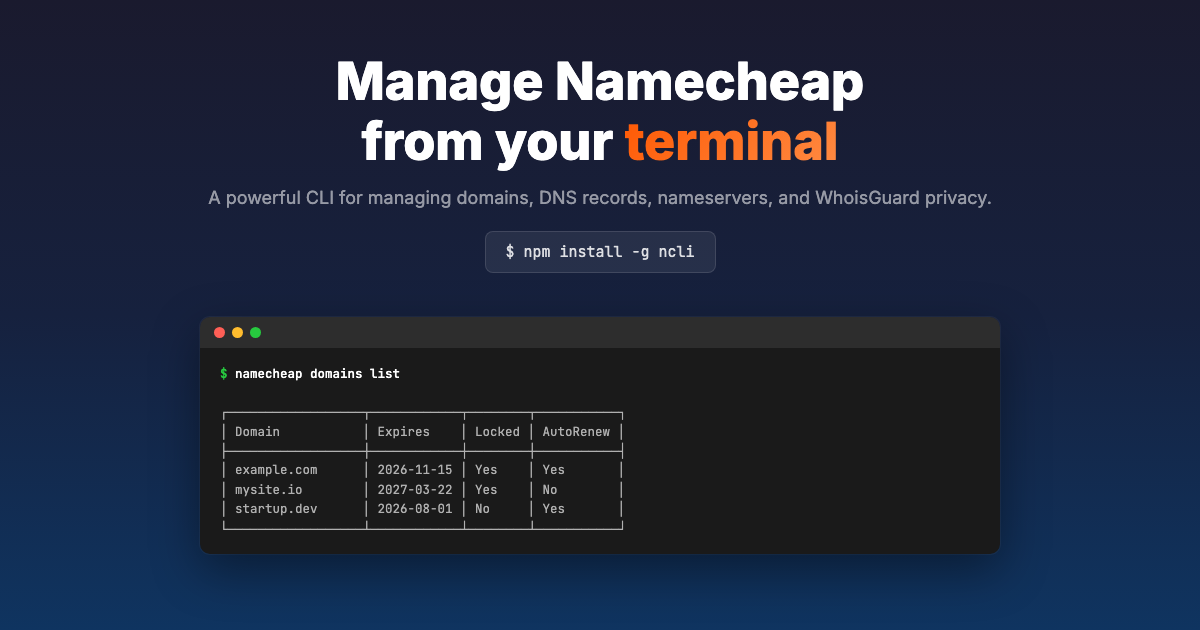
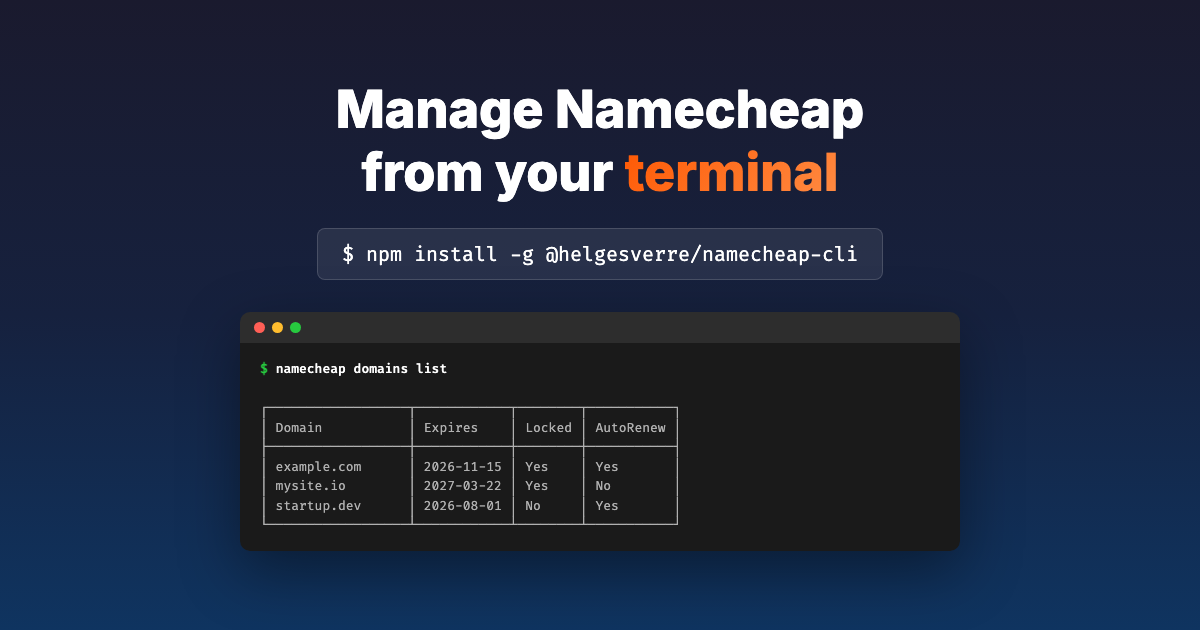
chore(website): update package name to @helgesverre/namecheap-cli

Changed region(s): [[0.1542, 0.4825, 0.8325, 0.9048], [0.1542, 0.0905, 0.8325, 0.3317], [0.2775, 0.3921, 0.7092, 0.4524]]

diff --git a/website/.vitepress/theme/HomePage.vue b/website/.vitepress/theme/HomePage.vue
@@ -5,15 +5,15 @@ const copied = ref(false);
 const activeTab = ref('npm');
 
 const tabs = [
-  { id: 'npm', label: 'npm', command: 'npm install -g ncli' },
-  { id: 'pnpm', label: 'pnpm', command: 'pnpm add -g ncli' },
-  { id: 'yarn', label: 'yarn', command: 'yarn global add ncli' },
-  { id: 'bun', label: 'bun', command: 'bun add -g ncli' },
+  { id: 'npm', label: 'npm', command: 'npm install -g @helgesverre/namecheap-cli' },
+  { id: 'pnpm', label: 'pnpm', command: 'pnpm add -g @helgesverre/namecheap-cli' },
+  { id: 'yarn', label: 'yarn', command: 'yarn global add @helgesverre/namecheap-cli' },
+  { id: 'bun', label: 'bun', command: 'bun add -g @helgesverre/namecheap-cli' },
 ];
 
 function copyInstall() {
   const tab = tabs.find((t) => t.id === activeTab.value);
-  navigator.clipboard.writeText(tab ? tab.command : 'npm install -g ncli');
+  navigator.clipboard.writeText(tab ? tab.command : 'npm install -g @helgesverre/namecheap-cli');
   copied.value = true;
   setTimeout(() => {
     copied.value = false;
@@ -77,7 +77,7 @@ const features = [
         with TypeScript.
       </p>
       <div class="hero-install" @click="copyInstall">
-        <code>npm install -g ncli</code>
+        <code>npm install -g @helgesverre/namecheap-cli</code>
         <span class="copy-icon">{{ copied ? '✓' : '📋' }}</span>
       </div>
       <div class="hero-actions">
@@ -160,7 +160,7 @@ const features = [
         <code>{{ tabs.find((t) => t.id === activeTab)?.command }}</code>
         <span class="copy-icon">{{ copied ? '✓' : '📋' }}</span>
       </div>
-      <p class="install-alt">Or run without installing: <code>npx ncli domains list</code></p>
+      <p class="install-alt">Or run without installing: <code>npx @helgesverre/namecheap-cli domains list</code></p>
     </div>
   </section>
 
@@ -168,11 +168,11 @@ const features = [
   <section class="cta-section">
     <div class="section-container">
       <h2 class="cta-heading">Ready to get started?</h2>
-      <p class="cta-subheading">Install ncli and manage your domains in seconds.</p>
+      <p class="cta-subheading">Install namecheap-cli and manage your domains in seconds.</p>
       <div class="cta-actions">
         <a href="/guide/getting-started" class="btn btn-primary">Read the Docs</a>
         <a
-          href="https://www.npmjs.com/package/ncli"
+          href="https://www.npmjs.com/package/@helgesverre/namecheap-cli"
           target="_blank"
           rel="noopener noreferrer"
           class="btn btn-secondary"
